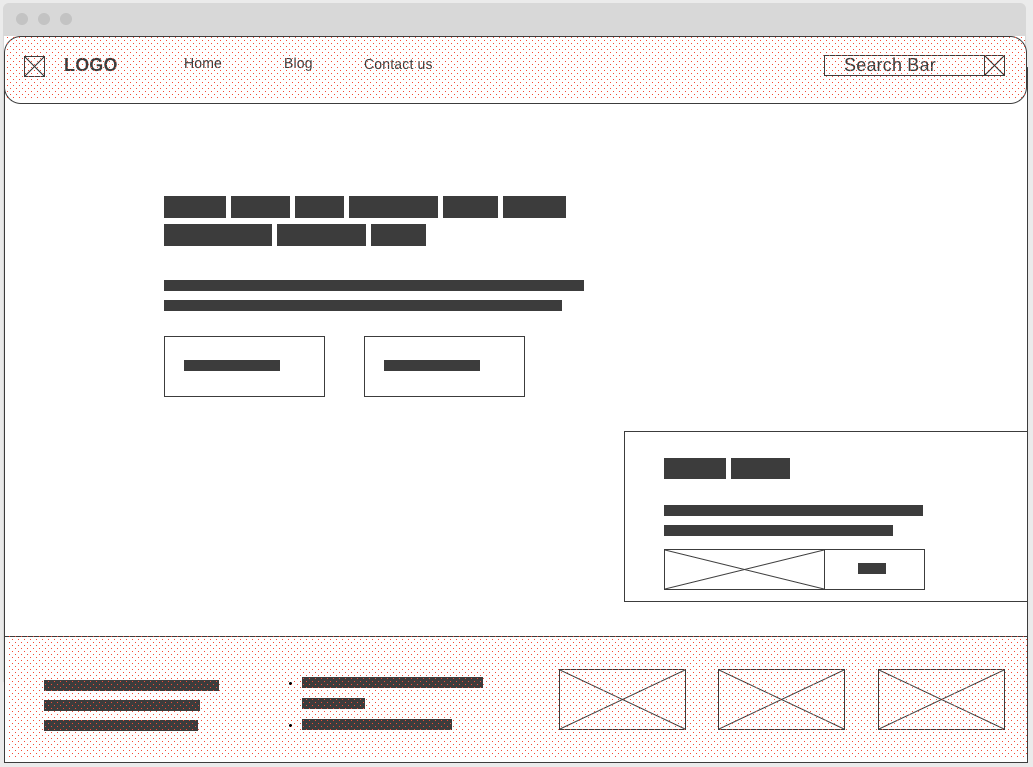
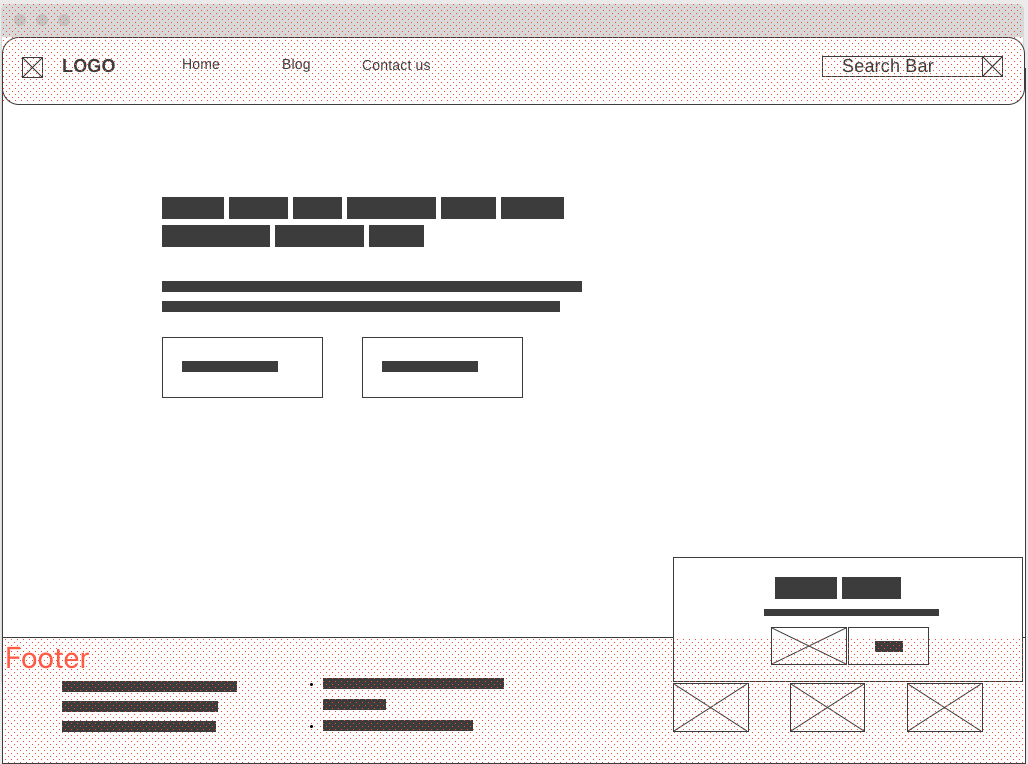
ype: style
- Adjust home page for normal view
- Formatting, missing semi colons, etc.
- Removed grid of home page content; convert to flex instead.

diff --git a/index.html b/index.html
@@ -2,12 +2,12 @@
 <html lang="en">
   <head>
     <!-- Required meta tags -->
-    <meta charset="UTF-8" />
-    <meta name="viewport" content="width=device-width, initial-scale=1.0" />
-    <meta http-equiv="X-UA-Compatible" content="ie=edge" />
+    <meta charset="UTF-8">
+    <meta name="viewport" content="width=device-width, initial-scale=1.0">
+    <meta http-equiv="X-UA-Compatible" content="ie=edge">
     <!-- CSS -->
-    <link href="css/styles.css" rel="stylesheet" />
-    <link href="css/homepage.css" rel="stylesheet" />
+    <link href="css/styles.css" rel="stylesheet">
+    <link href="css/homepage.css" rel="stylesheet">
     <title>Personal Blog</title>
   </head>
   <body>
@@ -15,7 +15,7 @@
     <div class="container">
       <nav id="navbar">
         <div id="nav-left">
-          <img id="logo-image" src="img/logo.png" alt="logo" />
+          <img id="logo-image" src="img/logo.png" alt="logo">
           <div id="logo-text">Personal Blog</div>
         </div>
         <div class="nav-middle">
@@ -24,34 +24,40 @@
           <a href="contact.html" class="nav-middle">Contact Us</a>
         </div>
         <form id="nav-right">
-          <input id="search-input" type="search" placeholder="search..." />
+          <input id="search-input" type="search" placeholder="search...">
           <button id="search-btn" type="submit">
-            <img id="search-icon" src="img/search-icon.png" alt="search icon" />
+            <img id="search-icon" src="img/search-icon.png" alt="search icon">
           </button>
         </form>
       </nav>
-      <section id="home-page" class="box">
-        <div id="home-heading">
-          <h1>Welcome to Personal Blog!</h1>
-          <h3>
-            A Place you can <u><strong>Share</strong></u> anything!
-          </h3>
+      <section id="home-page" class="column  flex-start">
+        <div class="row">
+          <div id="home-heading" class="column text-center">
+            <h1 >Welcome to Personal Blog!</h1>
+            <h3 >
+              A Place you can <u><strong>Share</strong></u> anything!
+            </h3>
+          </div>
         </div>
-        <div id="home-paragraph">
-          <p>
-            Everybody walks past a thousand story ideas every day. The good
-            writers are the ones who see five or six of them. Most people don’t
-            see any.
-          </p>
-          <p>Let's get started writing today!</p>
+        <div class="row">
+          <div id="home-paragraph">
+            <span>
+              Everybody walks past a thousand story ideas every day. The good
+              writers are the ones who see five or six of them. Most people
+              don’t see any.
+            </span>
+            <span>Let's get started writing today!</span>
+          </div>
         </div>
-        <div id="home-btn">
-          <button class="landing-btn">
-            <a class="landing-links" href="#">Sign Up</a>
-          </button>
-          <button class="landing-btn">
-            <a class="landing-links" href="blog.html">Login in</a>
-          </button>
+        <div class="row">
+          <div id="home-btn" class="row">
+            <button class="landing-btn">
+              <a class="landing-links" href="#">Sign Up</a>
+            </button>
+            <button class="landing-btn">
+              <a class="landing-links" href="blog.html">Login in</a>
+            </button>
+          </div>
         </div>
       </section>
       <div class="offset-box box column wide flex-center">
@@ -85,13 +91,13 @@
         </div>
         <div id="right-footer" class="tall flex-grow">
           <div class="little-square">
-            <a href="#"><img src="img/facebook.png" alt="facebook icon"/></a>
+            <a href="#"><img src="img/facebook.png" alt="facebook icon"></a>
           </div>
           <div class="little-square">
             <a href="#"><img src="img/instagram.png" alt="instagram icon"/></a>
           </div>
           <div class="little-square">
-            <a href="#"><img src="img/twitter.png" alt="twitter icon"/></a>
+            <a href="#"><img src="img/twitter.png" alt="twitter icon"></a>
           </div>
         </div>
       </footer>

diff --git a/css/homepage.css b/css/homepage.css
@@ -1,27 +1,15 @@
 #home-page {
   grid-area: hp;
-  display: grid;
-  grid-template:
-    "hd"
-    "pg"
-    "hp-content"
-    "hp-content";
-  grid-template-columns: 1fr;
-  justify-items: center;
-  font-size: 15px;
+  font-size: 1.2em;
   border: 1px solid black;
 }
-#home-heading {
-  grid-area: hd;
-  line-height: 4px;
-}
 #home-paragraph {
-  grid-area: pg;
   padding: 10px;
   margin-left: 17px;
+  text-align: center;
 }
-#home-btn {
-  grid-area: hp-content;
+#home-btn-container {
+  flex-direction: column;
 }
 .landing-btn {
   border: 1px solid #4caf50;
@@ -43,22 +31,12 @@
 /* Custom break point Small Screens*/
 @media (min-width: 600px) and (max-width: 660px) {
   #home-page {
-    grid-area: hp;
-    display: grid;
-    grid-template:
-      "hd hd hd hd hd hd hd"
-      "pg pg pg pg pg pg pg"
-      "hp-content hp-content hp-content hp-content hp-content hp-content hp-content"
-      "hp-content hp-content hp-content hp-content hp-content hp-content hp-content";
-    justify-items: center;
     font-size: 1.2em;
   }
   #home-heading {
-    grid-column: 1/7;
-    line-height: 13px;
+    line-height: 2px;
   }
   #home-paragraph {
-    grid-column: 1/7;
     max-width: 550px;
   }
   .landing-btn {
@@ -77,30 +55,16 @@
 /* Medium & Large Screens*/
 @media (min-width: 660px) {
   #home-page {
-    grid-area: hp;
-    display: grid;
-    grid-template:
-      "hd hd hd hd hd hd hd"
-      "pg pg pg pg pg pg pg"
-      "hp-content hp-content hp-content hp-content hp-content hp-content hp-content"
-      "hp-content hp-content hp-content hp-content hp-content hp-content hp-content";
-    grid-template-columns: repeat(6, 1fr);
-    justify-items: center;
-    font-size: 1.2em;
+    padding-top: 25px;
   }
   #home-heading {
-    grid-column: 1/7;
-    line-height: 13px;
+    line-height: 2px;
   }
   #home-paragraph {
     max-width: 550px;
     text-align: center;
     flex-direction: column;
-    height: 100%;
-  }
-  #home-btn {
-    grid-column: 1/7;
-    grid-row: 2/7;
+    padding-bottom: 20px;
   }
   .landing-btn {
     border: 1px solid #4caf50;
@@ -108,8 +72,6 @@
     width: 175px;
     padding: 20px 32px;
     text-align: center;
-    margin-left: 25px;
-    margin-right: 25px;
     text-decoration: none;
     display: inline-block;
     font-size: 16px;

diff --git a/css/styles.css b/css/styles.css
@@ -21,7 +21,7 @@ a {
     "hp"
     "os"
     "ft";
-  grid-template-rows: 192px 2fr 1fr;
+  grid-template-rows: 192px;
   min-height: 95vh;
 }
 .bordered {
@@ -88,10 +88,10 @@ a {
   .offset-box {
     position: fixed;
     border: 3px solid green;
-    height: 226px;
+    height: 172px;
     width: 352px;
     text-align: center;
-    bottom: 23%;
+    bottom: 21%;
     right: 18px;
     z-index: 2;
     background-color: darkseagreen;
@@ -128,9 +128,10 @@ a {
   .offset-box {
     position: fixed;
     border: 3px solid green;
-    height: 226px;
-    width: 548px;
-    bottom: 284px;
+    height: 172px;
+    width: 352px;
+    bottom: 284px;    
+    bottom: 21%;
     right: 13px;
     z-index: 2;
     background-color: darkseagreen;

diff --git a/contact.html b/contact.html
@@ -38,7 +38,7 @@
         </p>
         <form id="contact-form" class="column">
           <div class="form-group row">
-            <input id="subject" type="text" label="subject" placeholder="subject" />
+            <input id="subject" type="text" label="subject" placeholder="subject">
           </div>
           <div class="form-group row">
             <textarea id="message" label="message" placeholder="message"></textarea>

diff --git a/css/flex.css b/css/flex.css
@@ -38,3 +38,7 @@
 .flex-grow {
   flex-grow: 1;
 }
+
+.text-center{
+  text-align: center;
+}
